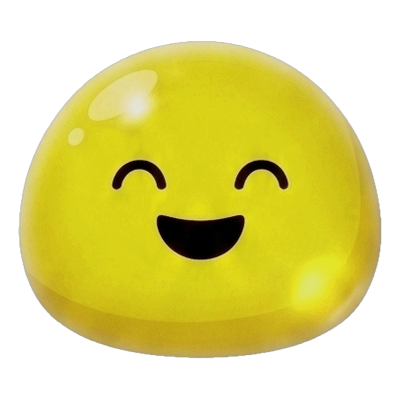
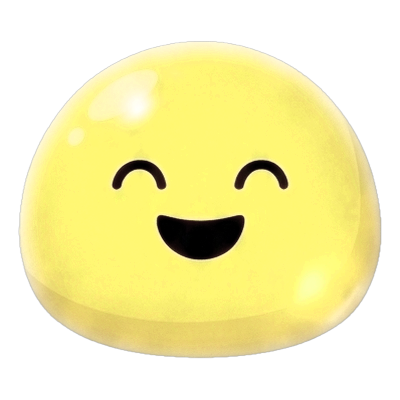
style(mallang): '좋았어요' 말랑이 색상을 연한 옐로우(파스텔)로 조정

diff --git a/src/lib/mallangSkins.js b/src/lib/mallangSkins.js
@@ -41,7 +41,7 @@ export const MALLANG_EYE_RECT = {
     2: { x: 0.25, y: 0.40, w: 0.50, h: 0.11, cw: 400, ch: 400, color: "#D0C8A3" },
     3: { x: 0.25, y: 0.40, w: 0.50, h: 0.11, cw: 400, ch: 400, color: "#FFFFFF" },
     4: { x: 0.25, y: 0.40, w: 0.50, h: 0.11, cw: 400, ch: 400, color: "#D8F0D8" },
-    5: { x: 0.25, y: 0.40, w: 0.50, h: 0.11, cw: 400, ch: 400, color: "#D9B417" },
+    5: { x: 0.25, y: 0.40, w: 0.50, h: 0.11, cw: 400, ch: 400, color: "#EFE08A" },
     _color: "#FFFFFF",
   },
 };
